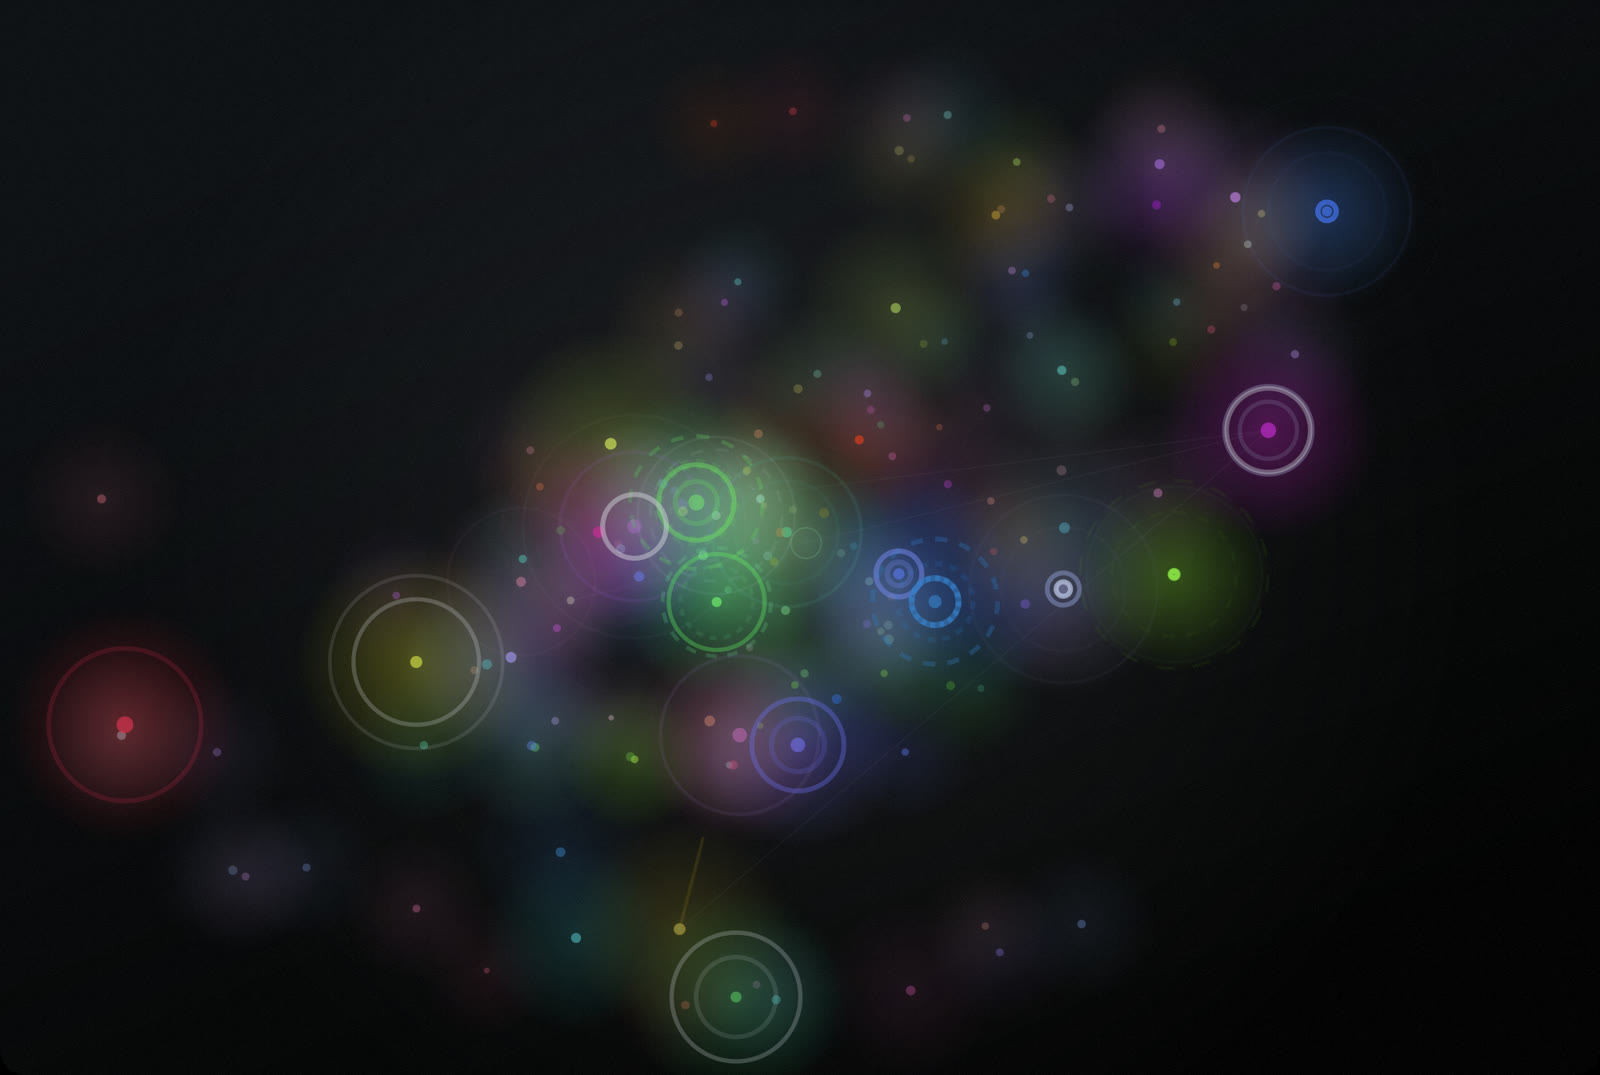
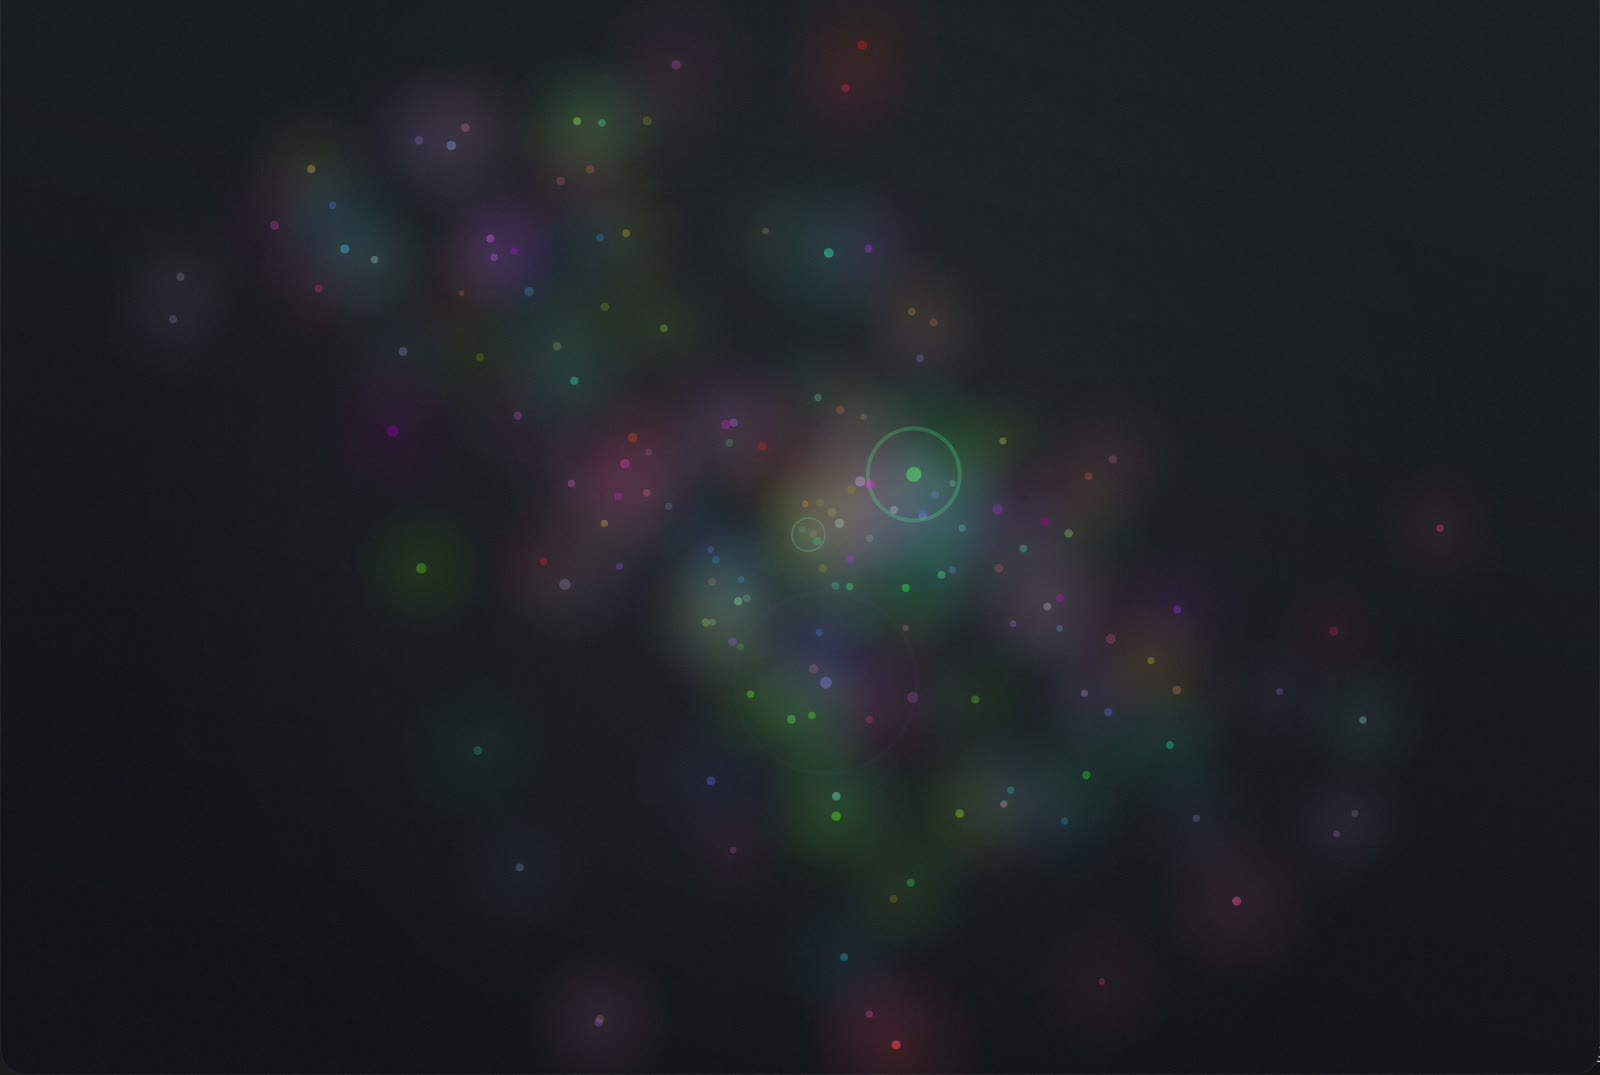
docs: fresh demo video and screenshots, and a HUD screenshot

diff --git a/README.md b/README.md
@@ -15,15 +15,19 @@ The score and the instruments are synthesized in pure Kotlin on every target, wi
 
 ## Screenshots
 
-https://github.com/user-attachments/assets/1b64e4fc-3ec5-411e-a212-d27ff67afc4b
+https://github.com/user-attachments/assets/e00ab211-8c55-48bb-9fc0-3cbc8f34ab88
 
-The 90 second demo above has sound. Below, the scene while it listens to a generated DEF CON mesh (150 simulated nodes, from the `defcon` preset of `meshtastic-mcp replay`): each orb is a node, each ring a packet, and the cloud rotates slowly in 3D.
+The 90 second demo above has sound. Below, the scene while it listens to a generated DEF CON mesh (150 simulated nodes, from the `defcon` preset of `meshtastic-mcp replay`): each orb is a node, each ring a packet, each faint line a neighbor link, and the cloud rotates slowly in 3D.
 
 ![Orbs and rings under the simulated mesh](docs/screenshots/scene-1.jpg)
 
-![The same mesh a few seconds on](docs/screenshots/scene-2.jpg)
+![A node pulsing with its neighbor links](docs/screenshots/scene-2.jpg)
 
-![Rings overlapping around the dense center](docs/screenshots/scene-3.jpg)
+![A packet ring and links to a busy node](docs/screenshots/scene-3.jpg)
+
+The HUD over the same mesh, with the Drivers panel listing what the mesh is doing to each parameter:
+
+![The HUD with the status card, toolbar and Drivers panel](docs/screenshots/hud.jpg)
 
 ## Run
 
